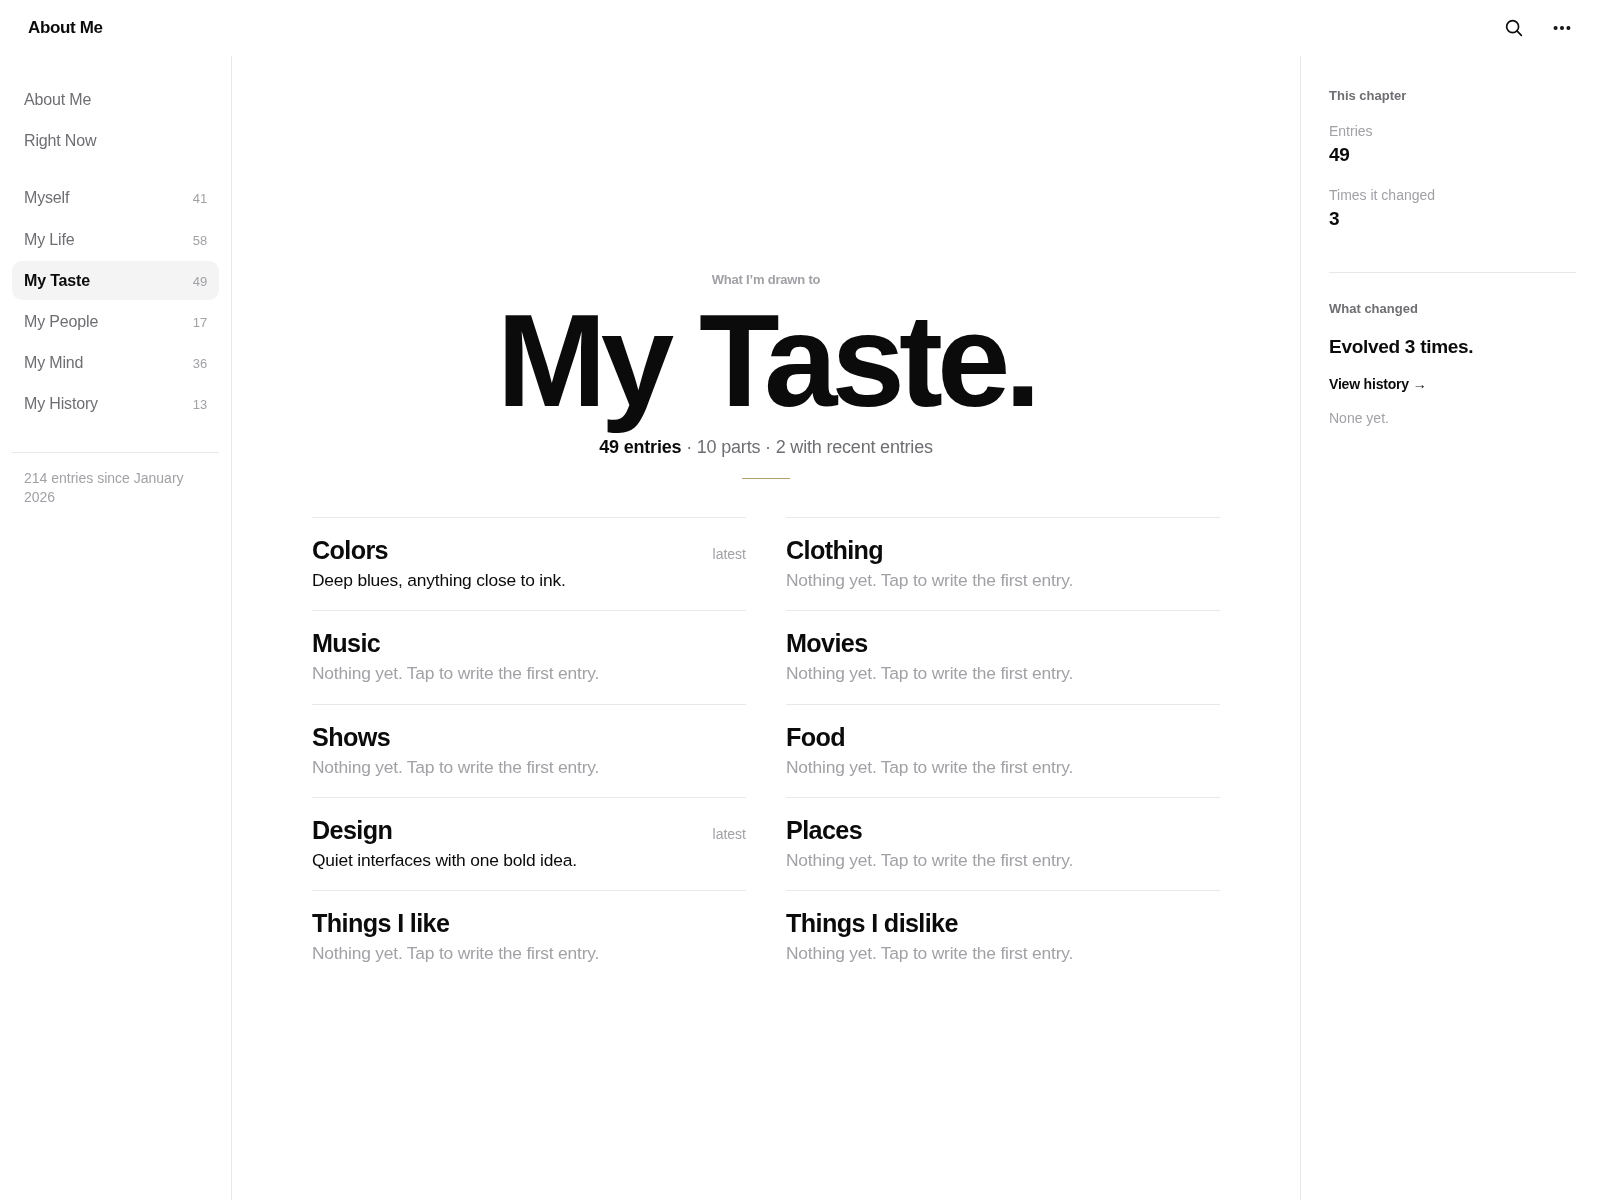
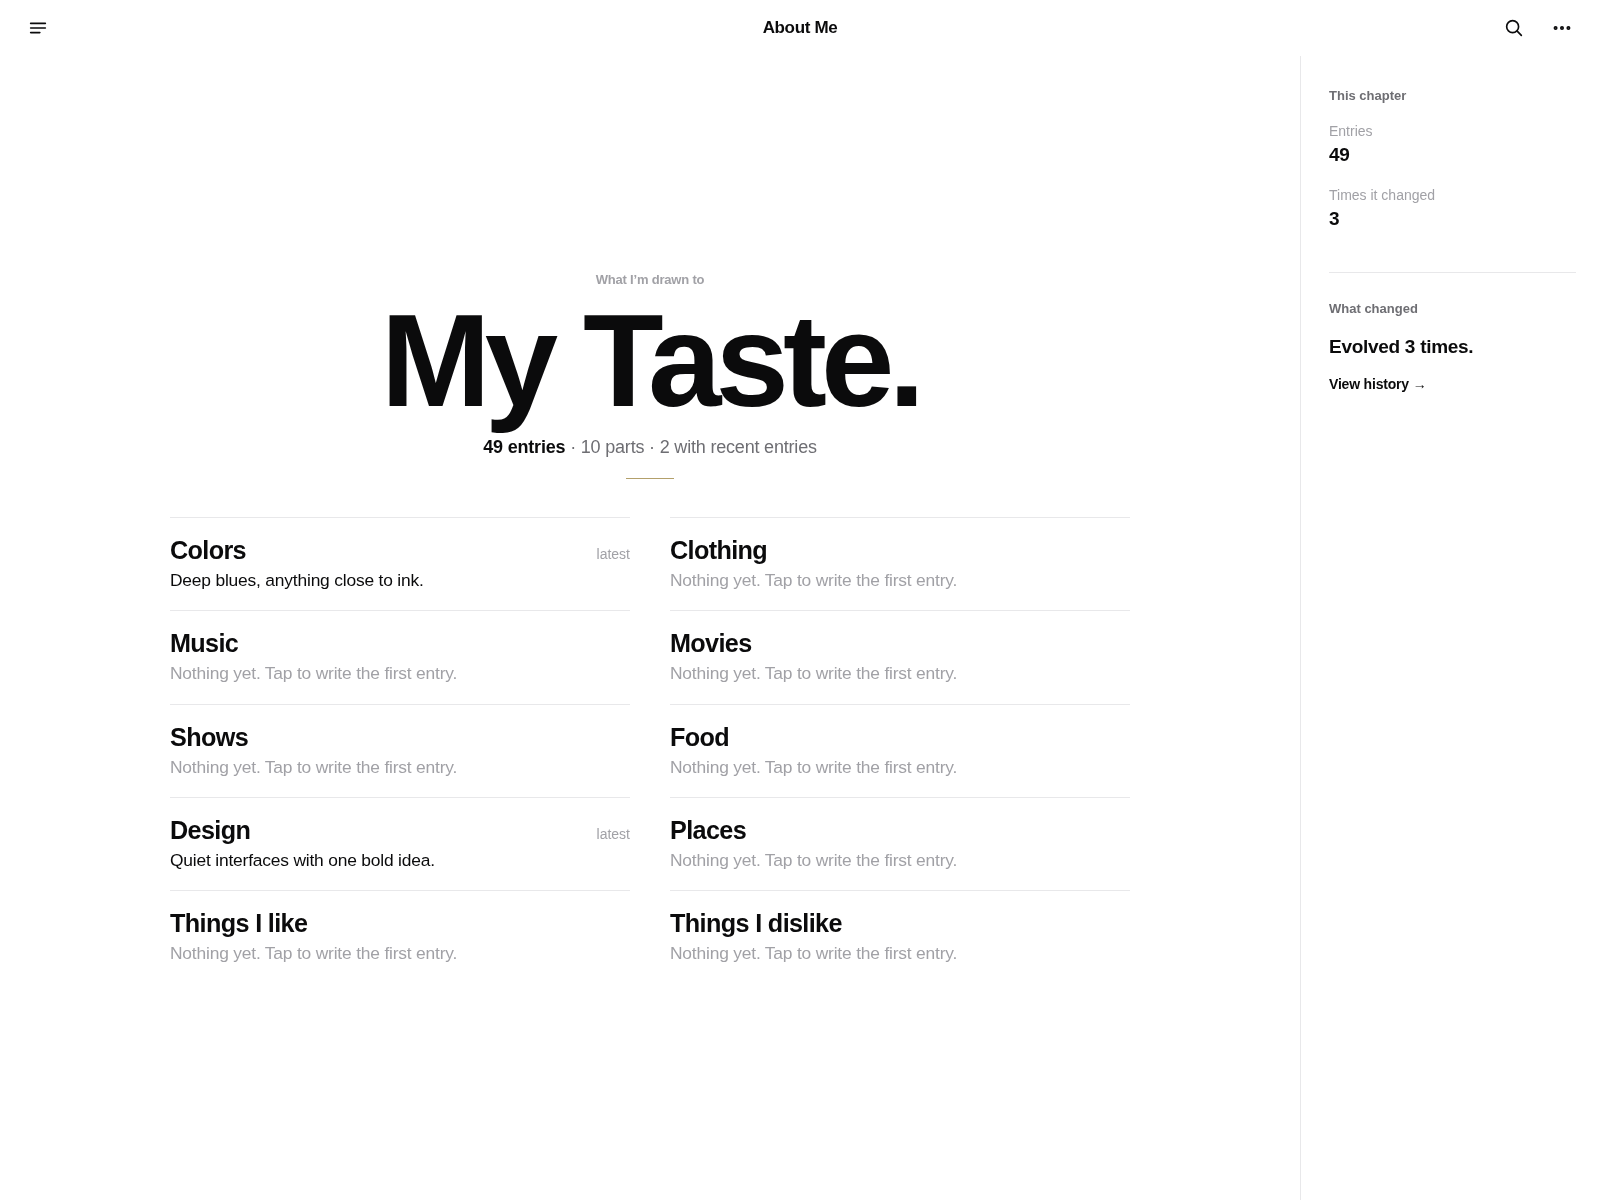
Remove the landscape sidebar
Landscape now uses the home contents list and the menu drawer for
navigation, like portrait, leaving the page and the What Changed panel.

Claude-Session: https://claude.ai/code/session_01B2jaZ1SNYJtGLSRg6z58ic

diff --git a/index.html b/index.html
@@ -27,7 +27,6 @@
   --measure: 680px;
   --gutter: clamp(20px, 7vw, 96px);
   --bar-h: 56px;
-  --side-w: 232px;
   --ctx-w: 300px;
   color-scheme: light;
 }
@@ -75,23 +74,13 @@ p { margin: 0; }
 .icon-btn svg { width: 22px; height: 22px; stroke: currentColor; fill: none; stroke-width: 1.8; stroke-linecap: round; }
 .more-btn { display: none; }
 
-.sidebar, .context { display: none; }
+.context { display: none; }
 .main { min-width: 0; padding-inline: var(--gutter); padding-block: 0 140px; }
 .column { max-width: var(--measure); margin-inline: auto; }
 
-/* ── Landscape, regular width: sidebar + page ───────────── */
+/* ── Landscape, regular width: wider page ──────────────── */
 @media (orientation: landscape) and (min-width: 900px) {
-  .app { grid-template-columns: var(--side-w) minmax(0, 1fr); }
-  .topbar { grid-template-columns: var(--side-w) 1fr auto; }
-  .topbar .start { display: none; }
-  .topbar .wordmark { justify-self: start; padding-left: 12px; }
   .more-btn { display: grid; }
-  .sidebar {
-    display: block; position: sticky; top: calc(var(--bar-h) + env(safe-area-inset-top, 0px));
-    align-self: start; height: calc(100dvh - var(--bar-h) - env(safe-area-inset-top, 0px));
-    overflow-y: auto; padding: 24px 12px 32px max(12px, env(safe-area-inset-left, 0px));
-    border-right: 1px solid var(--rule);
-  }
   .main { padding-inline: clamp(40px, 5vw, 80px); }
   .home { align-content: center !important; gap: clamp(16px, 3.2vh, 64px) !important; }
   .home .statement h1 span { display: inline; }            /* one line in landscape */
@@ -99,7 +88,7 @@ p { margin: 0; }
 }
 /* ── Landscape, wide: + context panel ───────────────────── */
 @media (orientation: landscape) and (min-width: 1100px) {
-  .app { grid-template-columns: var(--side-w) minmax(0, 1fr) var(--ctx-w); }
+  .app { grid-template-columns: minmax(0, 1fr) var(--ctx-w); }
   .context {
     display: block; position: sticky; top: calc(var(--bar-h) + env(safe-area-inset-top, 0px)); align-self: start;
     height: calc(100dvh - var(--bar-h) - env(safe-area-inset-top, 0px)); overflow-y: auto;
@@ -108,7 +97,7 @@ p { margin: 0; }
   .home .latest { display: none; }                  /* lives in the context panel */
 }
 
-/* ── Sidebar / drawer nav ───────────────────────────────── */
+/* ── Drawer nav ───────────────────────────────── */
 .nav { display: grid; gap: 2px; }
 .nav a {
   display: flex; align-items: baseline; justify-content: space-between; gap: 8px;
@@ -118,7 +107,6 @@ p { margin: 0; }
 .nav a[aria-current="page"] { color: var(--ink); font-weight: 700; background: var(--hover); }
 .nav a .count { font: 400 13px/1 var(--sans); color: var(--faint); }
 .nav .gap { height: 14px; }
-.nav-foot { margin-top: 28px; padding: 16px 12px 0; border-top: 1px solid var(--rule); }
 
 /* ── Home: one screen, no scroll on iPad ────────────────── */
 .home { max-width: 960px; margin-inline: auto; display: grid; gap: 40px; padding-block: 32px 48px; }
@@ -251,7 +239,6 @@ p { margin: 0; }
     </div>
   </header>
 
-  <aside class="sidebar" aria-label="Contents"><nav class="nav" id="sideNav"></nav><div class="nav-foot meta" id="sideFoot"></div></aside>
   <main class="main" id="main"></main>
   <aside class="context" id="context" aria-label="Context"></aside>
 </div>
@@ -399,7 +386,7 @@ function contextHTML(route) {
     return `<div class="ctx-block"><span class="label">This chapter</span>
       <div class="ctx-item"><span class="meta">Entries</span><span class="v">${c.entries}</span></div>
       <div class="ctx-item"><span class="meta">Times it changed</span><span class="v">${c.changes}</span></div></div>
-      <div class="ctx-block"><span class="label">What changed</span><p class="ctx-item"><span class="v">${c.changes ? `Evolved ${c.changes} times.` : "Nothing yet."}</span></p>${c.changes ? `<a class="link" href="#history">View history →</a>` : ""}${related.length ? related.map(t => `<div class="ctx-item"><span class="meta">${esc(t.topic)}</span><span class="v changed">${esc(t.is || t.steps.at(-1).quote)}</span></div>`).join("") : `<p class="meta">None yet.</p>`}</div>`;
+      <div class="ctx-block"><span class="label">What changed</span><p class="ctx-item"><span class="v">${c.changes ? `Evolved ${c.changes} times.` : "Nothing yet."}</span></p>${c.changes ? `<a class="link" href="#history">View history →</a>` : ""}${related.length ? related.map(t => `<div class="ctx-item"><span class="meta">${esc(t.topic)}</span><span class="v changed">${esc(t.is || t.steps.at(-1).quote)}</span></div>`).join("") : ""}</div>`;
   }
   const last = thread.steps.length - 1;
   return `<div class="ctx-block"><span class="label">What changed</span>
@@ -418,10 +405,8 @@ function render() {
   const chapter = chapters.find(c => c.id === raw);
   const route = chapter ? raw : raw === "now" ? "now" : "home";
   $("#main").innerHTML = chapter ? chapterHTML(chapter) : route === "now" ? nowHTML() : homeHTML();
-  $("#sideNav").innerHTML = navHTML(route);
   $("#drawerNav").innerHTML = navHTML(route);
   $("#context").innerHTML = contextHTML(route);
-  $("#sideFoot").textContent = `${person.entries} entries since ${person.begun}`;
   document.documentElement.classList.add("fit");
   $("#main").classList.add("is-home");
   window.scrollTo(0, 0);

diff --git a/DESIGN.md b/DESIGN.md
@@ -18,8 +18,8 @@ We design on 1200 × 1600 (portrait) and 1600 × 1200 (landscape) canvases, but 
 |---|---|---|
 | iPhone, Slide Over, narrow split view | < 700 | Book (single column), 20pt margins |
 | iPad portrait (mini → 13"), half split | 700 – 1032 | Book (single column) |
-| Landscape, ⅔ split or small iPad | 900 – 1099 | Sidebar + page |
-| Landscape full screen (11", 13", mini) | ≥ 1100 | Sidebar + page + context panel |
+| Landscape, ⅔ split or small iPad | 900 – 1099 | Wider page, single column |
+| Landscape full screen (11", 13", mini) | ≥ 1100 | Page + What changed panel |
 
 Rule: *landscape-shaped **and** ≥ 900pt wide* switches to the archive layout. Anything else gets the book. In SwiftUI this maps to `horizontalSizeClass == .regular` plus a `GeometryReader` width check. A regular size class alone isn't enough, because iPad portrait is also `.regular`.
 
@@ -34,11 +34,10 @@ Note: a 1200pt canvas is wider than any real iPad (13" iPad Pro is 1032 × 1376p
 
 ## 3. Landscape home: "the archive" (one screen)
 
-- **Top bar** across the full width: About Me (left) · Search · ⋯ (right)
-- **Left, 232pt, sidebar**: About Me, Right Now, and the six chapters with counts. This replaces the chapter grid.
+- **Top bar** across the full width: Menu · About Me · Search · ⋯. There's no sidebar: the home contents list and the Menu drawer are how you move around, the same as in portrait.
 - **Centre**: the statement on one line (**About Me.**) and the same contents list, vertically centred.
 - **Right, 300pt, What changed**: the full Friendships thread (three dated versions, the newest marked *now*) and the Career before → after with the *why*. On a chapter page this panel shows that chapter's changes.
-- So the three columns read: where to go · who I am now · how I got here. The earlier "Currently" panel was cut because it repeated Right now. word for word, which the no-scroll screen has no room for.
+- So the two columns read: who I am now · how I got here. The earlier "Currently" panel was cut because it repeated Right now. word for word, which the no-scroll screen has no room for.
 - Between 900 and 1100pt wide (split view) there's no right panel, so the two-line What changed. strip returns to the centre.
 
 Content and features are the same as portrait. Only the arrangement changes.
@@ -79,7 +78,7 @@ One family: **SF Pro** on iPad (Inter Tight as the web fallback). Hierarchy come
 ## 6. Navigation
 
 - **Portrait:** the content is the navigation. Tapping a chapter opens it. The menu opens a left drawer with the same contents list. Search opens a sheet that searches chapters, parts, Right Now, and old versions.
-- **Landscape:** a persistent sidebar, with the current page highlighted as a raised tab.
+- **Landscape:** no sidebar. Same as portrait: the contents list on home, plus the Menu drawer.
 - No bottom tab bar. It isn't needed, and it would make the app feel like a utility.
 - Deep links: `#home`, `#now`, `#myself`, `#life`, `#taste`, `#people`, `#mind`, `#history`.
 
